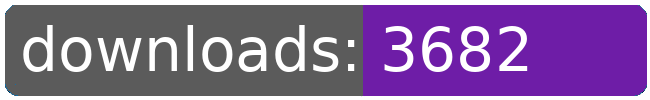
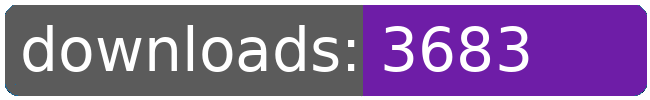
dl log written

Changed region(s): [[0.7692, 0.42, 0.8308, 0.72], [0.7692, 0.27, 0.8, 0.36], [0.8, 0.36, 0.8308, 0.39]]

diff --git a/README.md b/README.md
@@ -21,8 +21,8 @@
 		<td>237</td>
 		<td>265</td>
 		<td>293</td>
-		<td>322</td>
-		<td>+ 29</td>
+		<td>323</td>
+		<td>+ 30</td>
 	</tr>
 	<tr>
 		<td>aberrant.kahet.outfitter</td>
@@ -186,8 +186,8 @@
 		<td></td>
 		<td></td>
 		<td></td>
-		<td>3682</td>
-		<td>347</td>
+		<td>3683</td>
+		<td>348</td>
 	</tr>
 </table>
 </sub></sup>
@@ -278,8 +278,8 @@
 		<td>237</td>
 		<td>265</td>
 		<td>293</td>
-		<td>322</td>
-		<td>+ 29</td>
+		<td>323</td>
+		<td>+ 30</td>
 	</tr>
 	<tr>
 		<td>tributequarg</td>
@@ -377,8 +377,8 @@
 		<td></td>
 		<td></td>
 		<td></td>
-		<td>3682</td>
-		<td>347</td>
+		<td>3683</td>
+		<td>348</td>
 	</tr>
 </table>
 </sub></sup>
